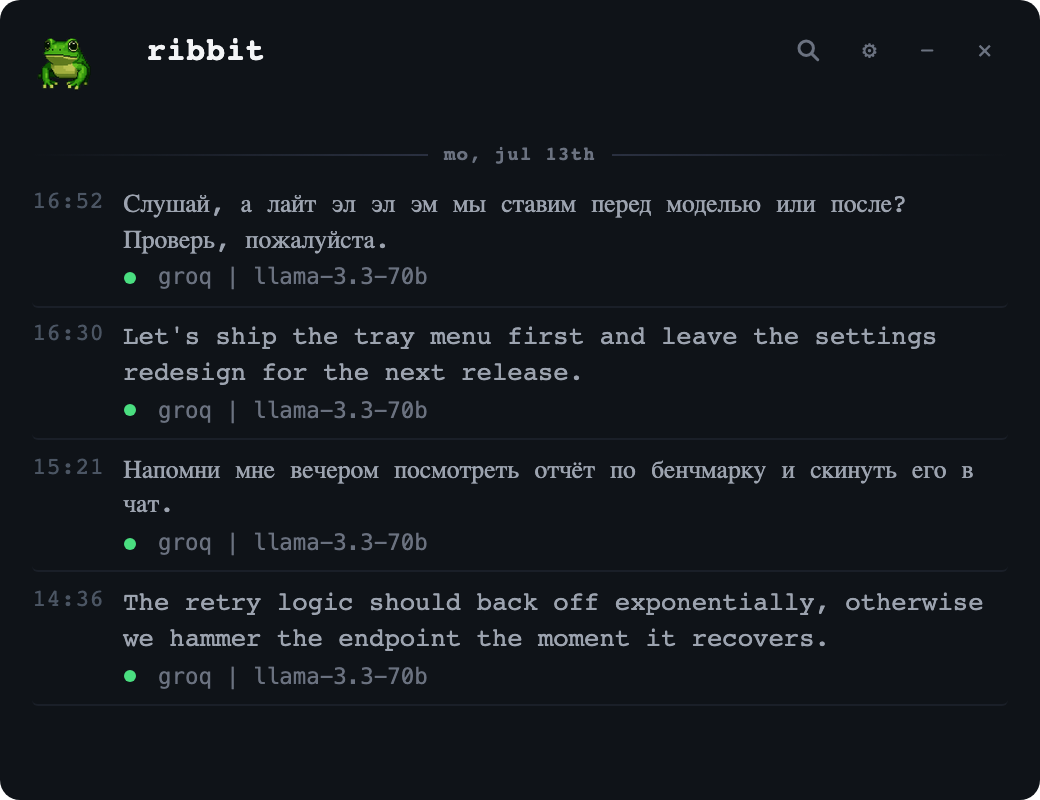
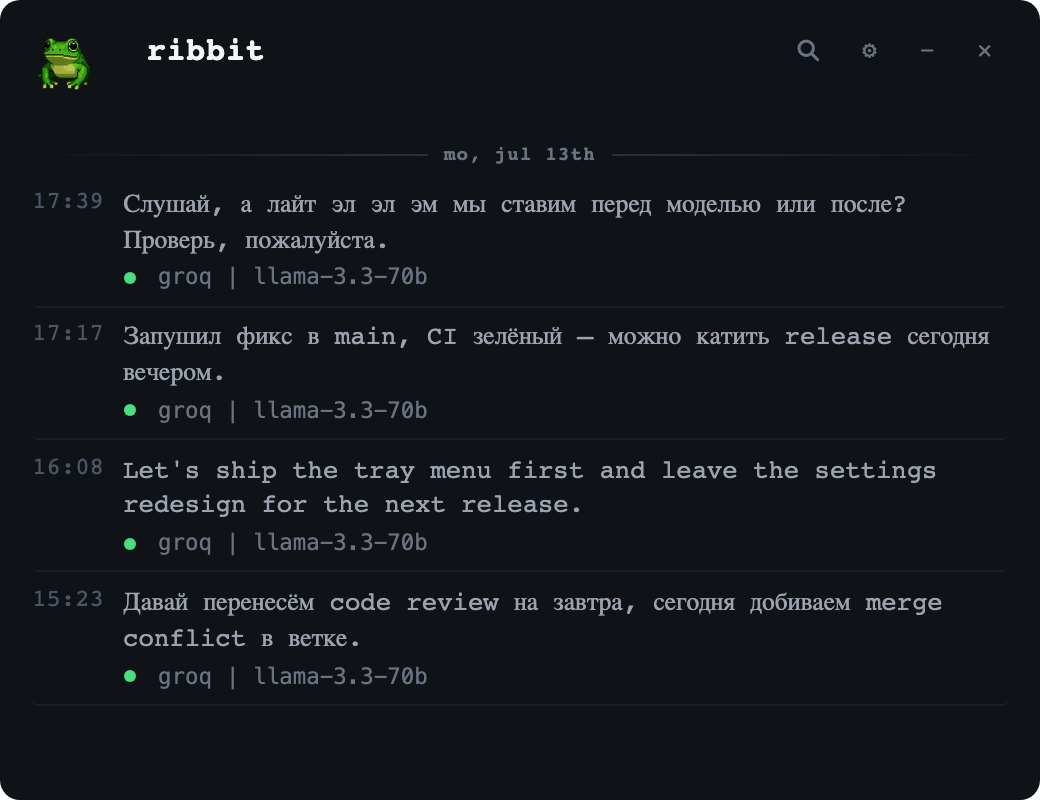
README: the log shows mixed-language dictation, and says so

Changed region(s): [[0.1231, 0.7188, 0.9538, 0.8125], [0.0615, 0.5625, 0.9231, 0.6562], [0.0308, 0.4062, 0.9538, 0.5]]

diff --git a/README.md b/README.md
@@ -36,6 +36,8 @@ Ribbit is built and used on macOS. The Windows build exists and installs, but it
 
 Every dictation lands in a log, grouped by day. Click a line — it's on your clipboard.
 
+Two languages in one sentence are fine: tick both in settings, and the English words inside a Russian phrase come back as English — `main`, `merge conflict`, `release` — not transliterated into Cyrillic.
+
 ![The transcript log](docs/screenshots/log.png)
 
 ## A word it keeps mishearing — fix it once
